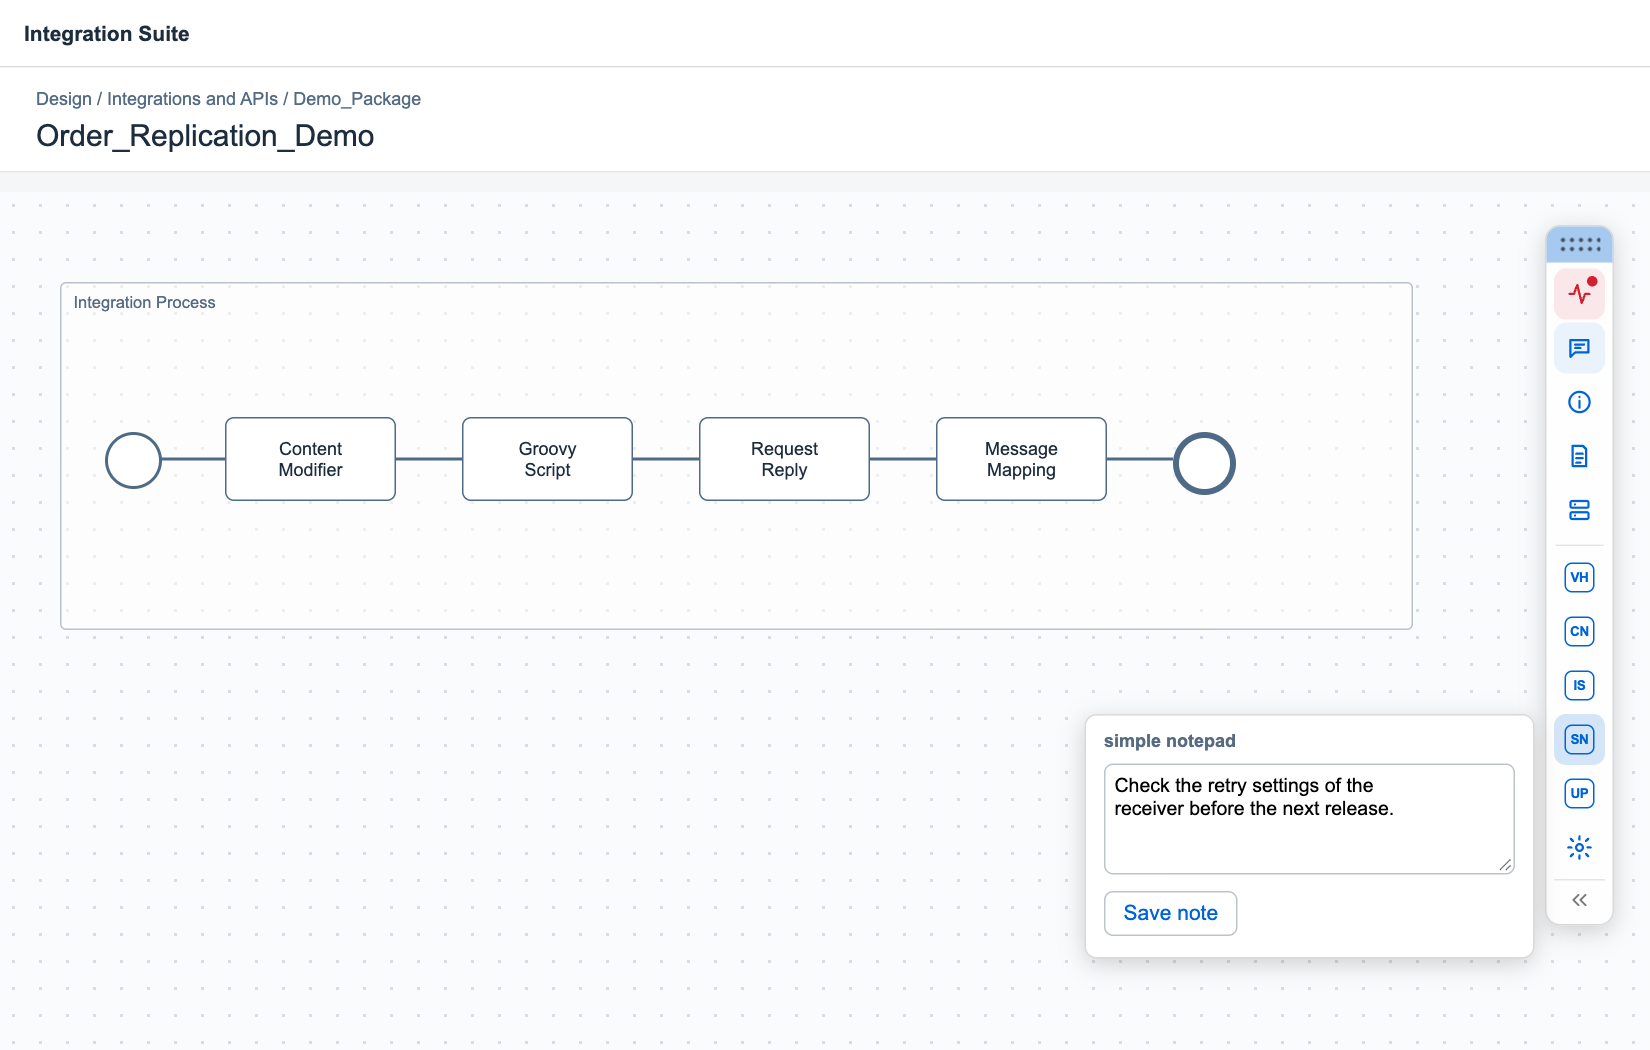
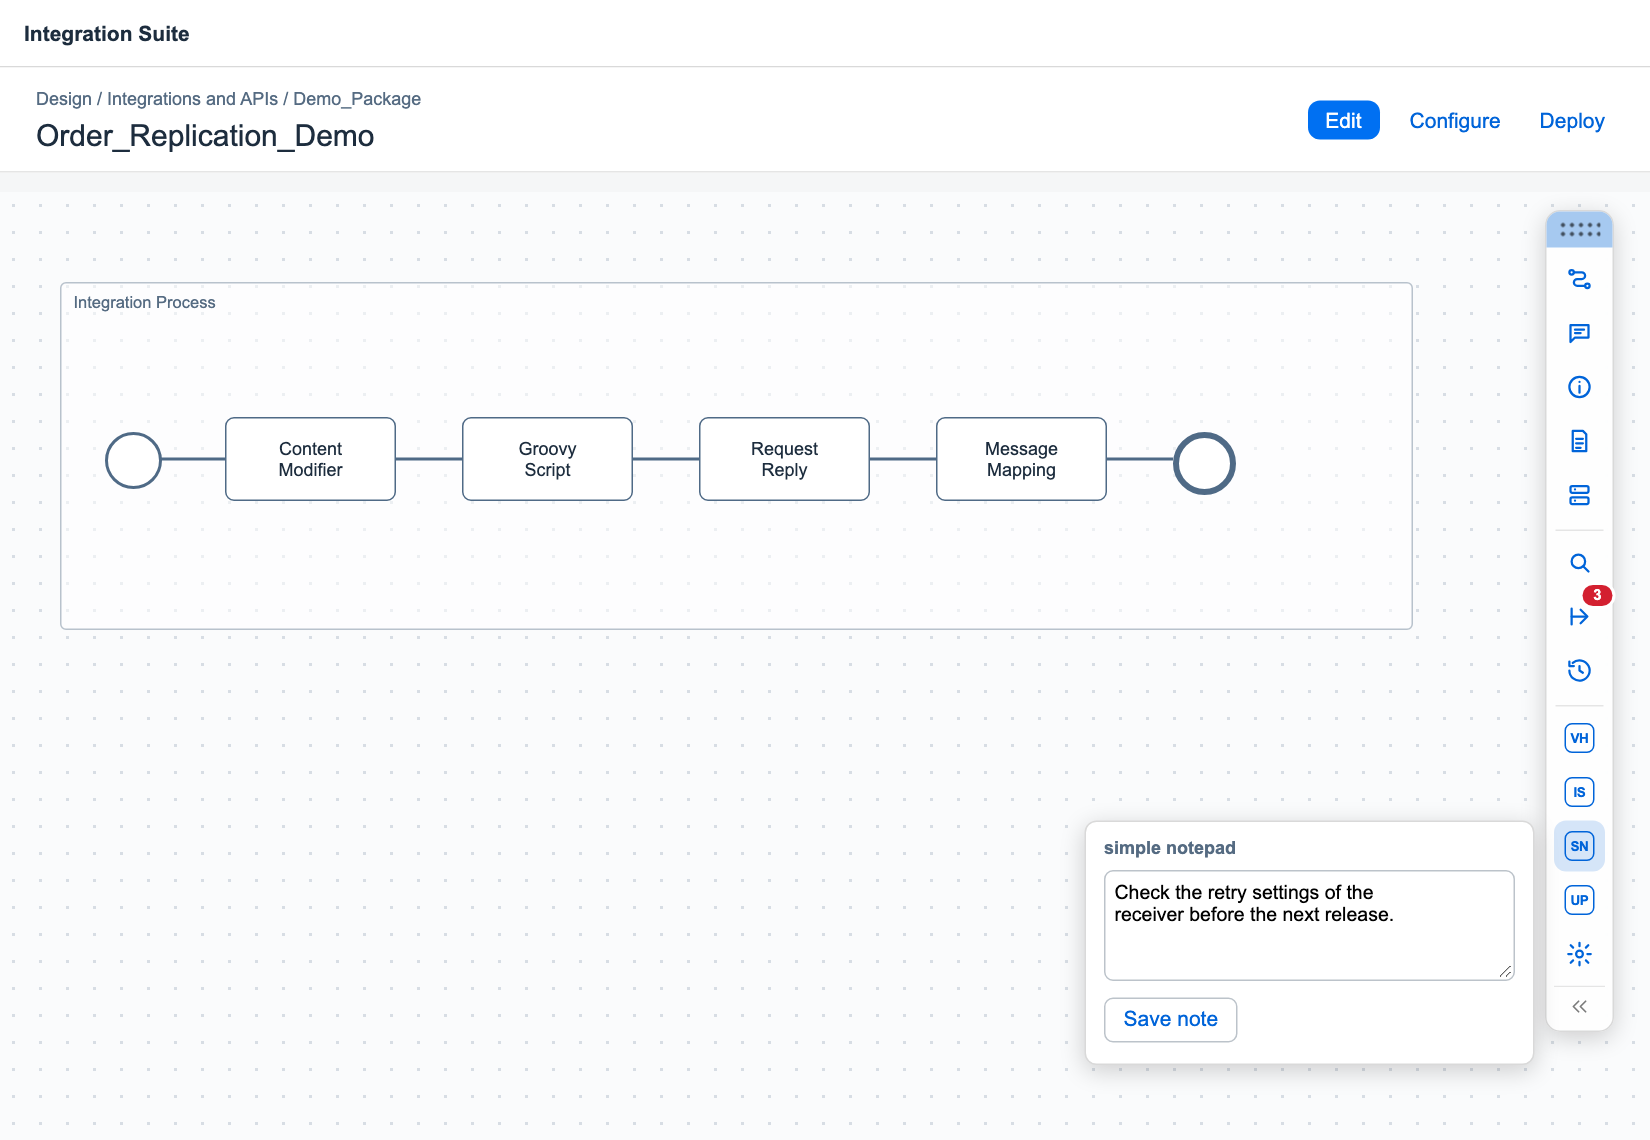
feat(whatsnew): What's new after the welcome tour, new screenshots with search and jump to
- after the 4.0 tour, finished or skipped, the regular What's new dialog opens
- screenshots of the current toolbar, plugins, search and jump to; rendered from
  tests/whatsnew-screenshots with demo data, nothing of a real tenant in them
- fix: links in the jump to menu and the palette rows stuck out on the right
  (content-box with width 100%), e.g. the failed messages count
- palette: the artifact name under actions is shown but no longer searched, so
  "order" does not list Info or Logs of an iFlow named Order...

diff --git a/tests/whatsnew-screenshots/scene.html b/tests/whatsnew-screenshots/scene.html
@@ -1,0 +1,95 @@
+<!doctype html><html><head><meta charset="utf-8">
+<link rel="stylesheet" href="../../css/contentScript.css">
+<style>
+  :root { --cpi-custom-color:#9cc3ee; --cpi-text-color:#000; --cpi-background-color:#fff; }
+  body { margin:0; height:100vh; background:#f5f6f7; font:14px Arial, sans-serif; color:#1d2d3e; overflow:hidden; }
+  .shell { height:44px; background:#fff; border-bottom:1px solid #d9d9d9; display:flex; align-items:center; padding:0 16px; gap:10px; font-weight:bold; }
+  .head { position:relative; background:#fff; padding:14px 24px 12px; border-bottom:1px solid #e5e5e5; }
+  .crumbs { color:#556b82; font-size:12px; margin-bottom:6px; }
+  .title { font-size:20px; }
+  .actions { position:absolute; right:24px; top:22px; display:flex; gap:14px; }
+  .actions button { border:0; background:none; color:#0064d9; font:14px Arial; cursor:pointer; }
+  .actions button.primary { background:#0070f2; color:#fff; border-radius:8px; padding:5px 12px; }
+  .canvas { position:absolute; top:128px; left:0; right:0; bottom:0; background: radial-gradient(circle, #d7dde4 1px, transparent 1.2px) 0 0 / 18px 18px, #fafbfc; }
+  .lane { position:absolute; left:40px; top:60px; width:900px; height:230px; border:1px solid #b8c2cc; background:#fff8; border-radius:4px; }
+  .lane span { position:absolute; left:8px; top:6px; font-size:11px; color:#556b82; }
+  .step { position:absolute; top:150px; height:54px; width:112px; background:#fff; border:1.5px solid #4f6a86; border-radius:6px; display:flex; align-items:center; justify-content:center; font-size:12px; text-align:center; }
+  .ev { position:absolute; top:160px; width:34px; height:34px; border-radius:50%; border:2px solid #4f6a86; background:#fff; }
+  .line { position:absolute; top:177px; height:2px; background:#4f6a86; }
+</style></head>
+<body>
+<script>
+var log={debug(){},log(){},error(){}}; function extensionAlive(){return true} function statistic(){} function showToast(){} async function checkURLchange(){}
+var sidebar={active:false};
+var cpiData={tenant:"t",integrationFlowId:"Order_Replication_Demo",currentArtifactId:"Order_Replication_Demo",currentArtifactType:"IFlow",currentPackageId:"Demo_Package",currentIflowName:"Order_Replication_Demo",runtimeLocationId:"cloudintegration"};
+const V=(name,type,fav)=>({name,fullName:name.replace(/_/g," "),url:"#"+name,type,favorit:!!fav});
+window.localStore={cpiHelper_floatingToolbarPosition:{right:24,top:140},cpiHelper_floatingToolbarExpanded:true,
+  "cpiHelper_paletteIndex_":{time:Date.now()-120000,packages:[{id:"Demo_Package",name:"Demo Package"},{id:"Sales_Orders",name:"Sales Orders"},{id:"Master_Data",name:"Master Data"}],
+  artifacts:[["Order_Replication_Demo","IFlow","Demo_Package"],["Order_to_Invoice","IFlow","Sales_Orders"],["Sales_Order_Create","IFlow","Sales_Orders"],["Order_Status_Update","IFlow","Sales_Orders"],["Purchase_Order_Inbound","IFlow","Sales_Orders"],["Order_Mapping","MessageMapping","Sales_Orders"],["Customer_Replication","IFlow","Master_Data"],["Orders_API","RESTAPIProvider","Sales_Orders"]].map(([id,type,pkg])=>({id,name:id.replace(/_/g," "),type,pkg,pkgName:pkg.replace(/_/g," ")}))}};
+window.syncStore={visitedIflows_:[V("Customer_Replication","IFlow",true),V("Sales_Orders","Package"),V("Order_to_Invoice","IFlow"),V("Order_Mapping","Message Mapping"),V("Order_Replication_Demo","IFlow")]};
+var chrome={runtime:{getURL:(p)=>p},storage:{onChanged:{addListener(){},removeListener(){}},
+  local:{get:async()=>window.localStore,set:async()=>{}},sync:{get:async()=>window.syncStore,set:async()=>{}}}};
+async function callChromeStoragePromise(k){return k===null?window.pluginStore:window.pluginStore[k]}
+window.pluginStore={};
+var pluginList=[
+ {id:"versionHistory",name:"Version History",toolbarButton:{title:"Version History",onClick(){}}},
+ {id:"iFlowSearcher",name:"iFlow Searcher",toolbarButton:{title:"iFlow Searcher",onClick(){}}},
+ {id:"simplenotepad",name:"simple notepad",messageSidebarContent:{onRender:()=>{const d=document.createElement("div");d.innerHTML='<textarea rows="4" style="width:260px;font:13px Arial;padding:6px;border:1px solid #bcc3ca;border-radius:6px">Check the retry settings of the\nreceiver before the next release.</textarea><div style="margin-top:6px"><button>Save note</button></div>';return d}}},
+ {id:"undeploy",name:"undeploy plugin",toolbarButton:{title:"Undeploy",onClick(){}}},
+];
+for (const p of pluginList) window.pluginStore[p.id+"---isActive"]=true;
+</script>
+<script src="../../common/visit-history.js"></script><script src="../../common/jump-targets.js"></script><script src="../../common/palette-search.js"></script>
+<script src="../../scripts/floatingToolbar.js"></script><script src="../../scripts/plugins.js"></script>
+<script src="../../scripts/globalToolbar.js"></script><script src="../../scripts/commandPalette.js"></script>
+<div class="shell">Integration Suite</div>
+<div class="head"><div class="crumbs">Design / Integrations and APIs / Demo_Package</div><div class="title">Order_Replication_Demo</div>
+  <div class="actions"><button class="primary" title="Edit">Edit</button><button title="Configure">Configure</button><button title="Deploy">Deploy</button></div></div>
+<div class="canvas">
+  <div class="lane"><span>Integration Process</span></div>
+  <div class="ev" style="left:70px"></div><div class="line" style="left:106px;width:44px"></div>
+  <div class="step" style="left:150px">Content<br>Modifier</div><div class="line" style="left:264px;width:44px"></div>
+  <div class="step" style="left:308px">Groovy<br>Script</div><div class="line" style="left:422px;width:44px"></div>
+  <div class="step" style="left:466px">Request<br>Reply</div><div class="line" style="left:580px;width:44px"></div>
+  <div class="step" style="left:624px">Message<br>Mapping</div><div class="line" style="left:738px;width:44px"></div>
+  <div class="ev" style="left:782px;border-width:4px"></div>
+</div>
+<div id="popupHost"></div>
+<script>
+const i = (n) => floatingToolbarIcon(n);
+const row = (ok, time) => `<tr><td><button class='cpiHelper_inlineInfo-button'><span style='color:${ok ? "#107e3e" : "#bb0000"}'>${ok ? "✓" : "✕"}</span><span style='color:${ok ? "#107e3e" : "#bb0000"};padding-inline-start:0.3em'>${time}</span></button></td>
+  <td><button title='logs'>${i("logs")}</button></td><td><button title='info'>${i("info")}</button></td><td><button title='trace'>${i("trace")}</button></td></tr>`;
+window.addPopup = () => { document.getElementById("popupHost").outerHTML = `
+<div id="cpiHelper_content" class="cpiHelper" style="width:max-content;min-width:14rem;right:auto;left:610px;top:150px">
+  <div id="cpiHelper_contentheader"><span id='sidebar_modal_minimize' class='cpiHelper_popupTitle'><span class='cpiHelper_floatingToolbar_dots'></span>CPI Helper</span>
+    <button type='button' class='cpiHelper_popupHeaderButton' aria-label='Close'>${i("close")}</button></div>
+  <div id="outerFrame"><div>
+    <div id="updatedText" class="contentText"><span id="cpiHelper_sidebar_refresh_text">Runtime: cloudintegration<br>Update: 14:32:05</span>
+      <button type="button" id="cpiHelper_sidebar_refresh_icon" class="cpiHelper_popupIconButton" aria-label="Refresh">${i("refresh")}</button></div>
+    <div id="deploymentText" class="contentText">Deployed 26.09.2026 14:02</div>
+    <div><table id="messageList" class="contentText"><tbody>
+      <tr class="contentText"><td colspan="3">2026-09-26</td></tr>
+      ${row(true, "14:31:58")}${row(true, "14:30:12")}${row(false, "14:29:12")}${row(true, "14:27:40")}
+    </tbody></table></div>
+  </div></div>
+</div>`;
+  document.querySelectorAll("#messageList button svg").forEach((s) => { s.setAttribute("width", 15); s.setAttribute("height", 15); }); };
+window.build = async (expanded, traceActive) => {
+  window.localStore.cpiHelper_floatingToolbarExpanded = expanded;
+  const tb = await createFloatingToolbar("Order_Replication_Demo");
+  const b = (id, icon, title, k) => addFloatingToolbarButton(tb, { id, icon, title, accessKey: k, onClick() {} });
+  b("__buttonxx", "trace", "Trace", "2"); b("__buttonxy", "messages", "Messages", "3"); b("__buttoninfo", "info", "Info", "4"); b("__more_logs", "logs", "Logs");
+  addFloatingToolbarMenuButton(tb, { id: "__runtime_button", icon: "runtime", title: "Runtime", getItems: async () => [{ label: "cloudintegration (deployed)", selected: true }, { label: "integrationcell" }] });
+  addFloatingToolbarSeparator(tb, "Go to");
+  addGlobalNavigationButtons(tb);
+  await runPluginContentHooks();
+  addFloatingToolbarSeparator(tb, "Plugins");
+  for (const { plugin, kind } of await getToolbarPlugins()) {
+    const e = { id: `cpiHelperToolbarPlugin--${plugin.id}`, iconNode: createPluginToolbarIcon(plugin), title: plugin.toolbarButton?.title || plugin.name };
+    if (kind === "button") addFloatingToolbarButton(tb, { ...e, onClick() {} }); else addFloatingToolbarPanelButton(tb, { ...e, render: () => getPluginPanelContent(plugin) });
+  }
+  addFloatingToolbarButton(tb, { id: "__more_plugins", icon: "settings", title: "Manage plugins", onClick() {} });
+  cpihFailedMessages.count = 3; applyFailedMessagesBadge();
+  if (traceActive) setFloatingToolbarButtonActive("__buttonxx", true);
+};
+</script></body></html>

diff --git a/whatsNew/whatsNew.js b/whatsNew/whatsNew.js
@@ -31,6 +31,8 @@ async function whatsNewCheck(showOnlyOnce = true, initialTab = null) {
   const Kangoolutions_Logo = chrome.runtime.getURL("images/kangoolutions_icon.png");
   const TOOLBAR_SCREENSHOT = chrome.runtime.getURL("images/whatsnew/4.0-toolbar.png");
   const TOOLBAR_PLUGINS_SCREENSHOT = chrome.runtime.getURL("images/whatsnew/4.0-plugins.png");
+  const SEARCH_SCREENSHOT = chrome.runtime.getURL("images/whatsnew/4.0-search.png");
+  const JUMP_SCREENSHOT = chrome.runtime.getURL("images/whatsnew/4.0-jump.png");
   const devtoberfestPicture = chrome.runtime.getURL("images/devtoberfestPicture.png");
   const md = window.markdownit();
 
@@ -160,6 +162,7 @@ async function whatsNewCheck(showOnlyOnce = true, initialTab = null) {
                 <li>The header of the toolbar and of the message popup has the <b>color of your tenant</b>, as set in the browser popup.</li>
                 <li>The toolbar also shows up on <b>API and MCP Server</b> pages. There the integration cell is the default runtime.</li>
             </ul>
+            <a href="${SEARCH_SCREENSHOT}" target="_blank"><img class="ui fluid bordered rounded image" src="${SEARCH_SCREENSHOT}" alt="The search of CPI Helper finds iFlows, APIs, mappings and packages of the tenant"></a>
             <h4 class="ui header">Search and jump from anywhere</h4>
             <ul class="ui list">
                 <li>The toolbar is on <b>every CPI page</b> now. Outside of an iFlow it has Search, Jump to, Recent and Plugins.</li>
@@ -169,6 +172,7 @@ async function whatsNewCheck(showOnlyOnce = true, initialTab = null) {
                 <li>A red number on Jump to shows the <b>failed messages of the past hour</b>. It can be switched off in the browser popup.</li>
                 <li>While an iFlow is in edit mode the toolbar does not navigate away, save or cancel first. Ctrl/⌘ + click opens a page in a new tab.</li>
             </ul>
+            <a href="${JUMP_SCREENSHOT}" target="_blank"><img class="ui fluid bordered rounded image" src="${JUMP_SCREENSHOT}" alt="Jump to with the messages of this iFlow and the monitor pages"></a>
             <a href="${TOOLBAR_PLUGINS_SCREENSHOT}" target="_blank"><img class="ui fluid bordered rounded image" src="${TOOLBAR_PLUGINS_SCREENSHOT}" alt="Compact toolbar with an open plugin panel"></a>
             <h4 class="ui header">Plugins moved into the toolbar</h4>
             <ul class="ui list">
@@ -287,7 +291,7 @@ async function whatsNewCheck(showOnlyOnce = true, initialTab = null) {
         if (initialTab) {
           cpihActivateTab(document.querySelector("#cpiHelper_bigPopup_content_semanticui"), initialTab);
         }
-        // the tour needs the toolbar, which only exists on artifact pages
+        // the tour needs the toolbar, which may not be built yet
         const tourButton = document.querySelector(".cpihelperWhatsNewTour");
         if (!getFloatingToolbar()) {
           tourButton?.remove();

diff --git a/scripts/commandPalette.js b/scripts/commandPalette.js
@@ -146,13 +146,13 @@ function cpihBuildPaletteItems(index, history) {
   view.recent.forEach((entry, position) => historyBoost.set(`${entry.type}|${entry.name}`, { boost: 30 - position }));
 
   for (const action of cpihPageActions()) {
-    add("action|" + action.key, { label: action.label, keywords: action.keywords, sub: cpiData.currentArtifactId ? cpihArtifactLabel() : "", icon: action.icon, iconHtml: action.iconHtml, run: action.run, kind: "Action", boost: 50 });
+    add("action|" + action.key, { label: action.label, keywords: action.keywords, detail: cpiData.currentArtifactId ? cpihArtifactLabel() : "", icon: action.icon, iconHtml: action.iconHtml, run: action.run, kind: "Action", boost: 50 });
   }
 
   const context = cpihCurrentArtifactContext();
   if (context) {
     for (const target of cpihArtifactJumpTargets(context)) {
-      add("context|" + target.path, { label: `${target.area} - ${target.label}`, sub: cpihArtifactLabel(), icon: target.icon, href: base + target.path, kind: "Current artifact", boost: 45 });
+      add("context|" + target.path, { label: `${target.area} - ${target.label}`, detail: cpihArtifactLabel(), icon: target.icon, href: base + target.path, kind: "Current artifact", boost: 45 });
     }
   }
   for (const entry of [...view.favorites, ...view.recent]) {
@@ -274,7 +274,8 @@ async function openCommandPalette() {
         label.textContent = item.label;
         const sub = document.createElement("span");
         sub.className = "cpiHelper_palette_itemSub";
-        sub.textContent = item.sub && item.sub !== item.kind ? item.sub : item.id && item.id !== item.label ? item.id : "";
+        // detail is shown but not searched, e.g. the artifact name under its actions
+        sub.textContent = item.detail ?? (item.sub && item.sub !== item.kind ? item.sub : item.id && item.id !== item.label ? item.id : "");
         text.append(label, sub);
         const kind = document.createElement("span");
         kind.className = "cpiHelper_palette_itemKind";

diff --git a/scripts/celebration.js b/scripts/celebration.js
@@ -101,9 +101,10 @@ function showV4Celebration() {
     if (event.target === overlay) close();
   });
   card.querySelector(".cpiHelper_celebration_close").addEventListener("click", close);
+  // after the tour, finished or skipped, the regular What's new dialog follows
   card.querySelector(".cpiHelper_celebration_primary").addEventListener("click", () => {
     close();
-    startToolbarTour();
+    startToolbarTour({ afterTour: () => whatsNewCheck(false) });
   });
   card.querySelector(".cpiHelper_celebration_secondary").addEventListener("click", () => {
     close();
@@ -188,11 +189,13 @@ async function waitForFloatingToolbar(timeout = 8000) {
   return getFloatingToolbar();
 }
 
-async function startToolbarTour() {
+// afterTour runs when the tour is over, also when it was skipped or could not start
+async function startToolbarTour({ afterTour } = {}) {
   document.getElementById("cpiHelper_tour")?._cpiHelperEnd?.();
   const toolbar = await waitForFloatingToolbar();
   if (!toolbar) {
     showToast("The toolbar is not there yet, try again in a moment.", "CPI Helper 4.0", "info");
+    afterTour?.();
     return null;
   }
 
@@ -277,14 +280,18 @@ async function startToolbarTour() {
     document.removeEventListener("keydown", onKeydown, true);
     window.removeEventListener("resize", onResize);
     tour.remove();
+    let burstShown = false;
     if (finished) {
       const grip = getFloatingToolbar()?.querySelector(".cpiHelper_floatingToolbar_grip")?.getBoundingClientRect();
       if (grip) {
         const burst = createConfetti({ count: 28, burstFrom: { x: grip.left + grip.width / 2, y: grip.top + grip.height / 2 } });
         document.body.appendChild(burst);
         setTimeout(() => burst.remove(), 1600);
+        burstShown = true;
       }
     }
+    // the confetti burst plays first
+    if (afterTour) setTimeout(afterTour, burstShown ? 900 : 0);
   };
   tour._cpiHelperEnd = () => end(false);
 

diff --git a/css/contentScript.css b/css/contentScript.css
@@ -1439,9 +1439,11 @@ img.cpiHelper_floatingToolbar_pluginIcon {
   overflow-y: auto;
 }
 
+/* links, unlike buttons, are content-box: with width 100% and padding they would stick out of the menu */
 a.cpiHelper_floatingToolbar_menuItem,
 a.cpiHelper_floatingToolbar_menuItem:hover,
 a.cpiHelper_floatingToolbar_menuItem:visited {
+  box-sizing: border-box;
   color: var(--sapList_TextColor, #1d2d3e);
   text-decoration: none;
 }
@@ -1652,6 +1654,7 @@ a.cpiHelper_floatingToolbar_menuItem:visited {
 #cpiHelper_palette .cpiHelper_palette_item > a:visited,
 #cpiHelper_palette .cpiHelper_palette_item > a:hover,
 #cpiHelper_palette .cpiHelper_palette_item > button {
+  box-sizing: border-box;
   display: flex;
   align-items: center;
   gap: 10px;
